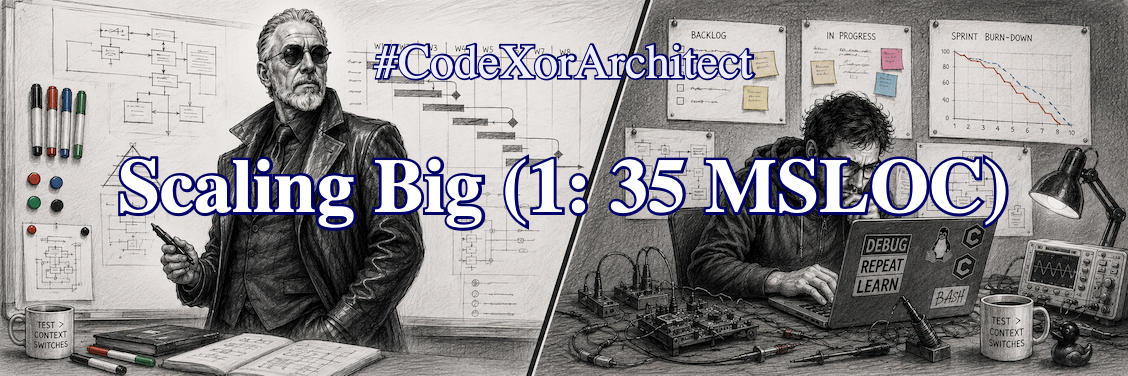
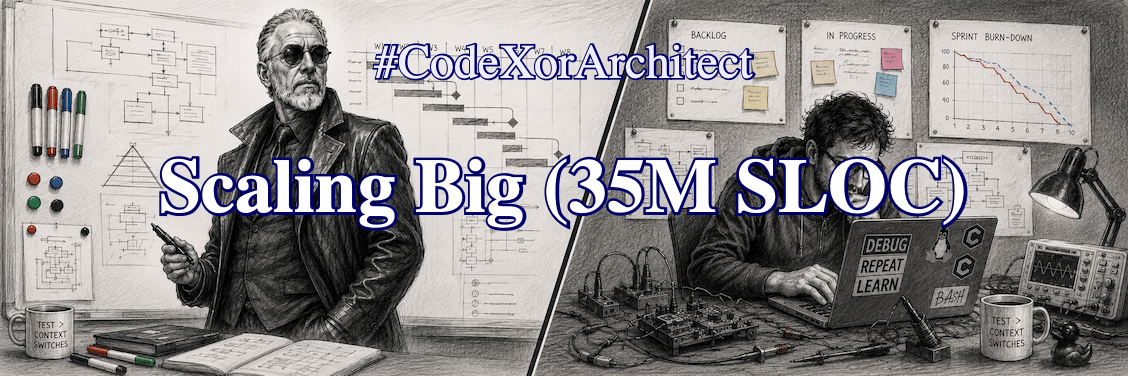
CodeXorArchitect::3.ScalingBig-1: shorter, compact and a bit less 'Linux'

Changed region(s): [[0.0931, 0.4096, 0.8998, 0.6144]]

diff --git a/SystemEngineering/blogs/CodeXorArchitect/DRAFTS/3.ScalingBig-1__35MSLOC.rst b/SystemEngineering/blogs/CodeXorArchitect/DRAFTS/3.ScalingBig-1__35MSLOC.rst
@@ -5,44 +5,41 @@
 
 Scaling Big (1)
 ===============
-:Ready: 		No
+:Ready: 		13/Sept 2026
 :Posted: 		No
 :reading-time:	?
 :LinkedIn: 		To Be done
-.. 360 words from here
 
-You shouldn't build a 350m-high skyscraper in the same way as a bike shed. Likewise, coding a 35M SLOC Linux kernel takes a
-different style than `HelloWorld`. Still, all software starts small. Even Linux did fit on a single page, 35 years ago.
+.. 329 words from here
+
+You shouldn’t build a 350m skyscraper like a bike shed; likewise, 35M lines of Linux takes a different style than
+``HelloWorld``.  All software starts small however; Linux fit on a single page, once.
 |BR|
-Today's question is: How can architecture help to scale software?
+Sound architecture helps to scale! E.g. Linux is based on the *'Common Unix Architecture'*, with drivers, CPU abstraction,
+file- & networking-IO, etc. Even version v0.0.1 of the Linux kernel used it.
 
-Linux is based on the *'Common Unix Architecture'*. A well-known, very straightforward structure, with drivers, CPU
-abstraction, file- & networking-IO, and a bit more.  Even version v0.0.1 of the Linux kernel used it. Without it, Linux
-would not scale that well.
-
-Building a big codebase is a lot of work. With common estimation statistics, we know that building Linux cost
-around 10kMY. Or, as I prefer: **20k Sprints** That is roughly 30 teams for 35 years.
+Remember, a big codebase is a lot of work. Estimates suggest a product of Linux's complexity costs around **20,000 Sprints**.
 |BR|
-When it starts, everything is small and smooth; probably you know every line of ``HelloWorld``. But that approach doesn't
-scale -- you can’t memorize millions of lines.  Still, no single SW-engineer should ever get lost in the
-codebase. Otherwise nobody can add features, and the system can't grow. Here this Common Unix Architecture helped Linux a lot.
+But, it always starts small and smooth; probably you know every line of ``HelloWorld``. But that approach doesn't
+scale -- you can’t memorize 35M SLOC.
 
-All source files are grouped in (sub)dirs along this architecture.  Roughly, 80% of all code is in the `drivers`
-directory. When you're not working on drivers, you can skip the biggest portion of the code in a blink. And this structure
-repeats.
-|BR|
-To improve, for example, the real-time behavior of the scheduler, you can skip even more. Not only are all drivers-lines
-irrelevant, the hardware abstraction and all IO modules are unimportant too. Only about 0.2% of all code is for the scheduler;
-and it's easy to find (It’s in ``/kernel/sched/``:-).
-|BR|
-The real-time part of the scheduler is even smaller; it's less than 1/100 of 1% of the codebase. A meager 2k lines; you
-probably go over it in a few days.
+To scale, no single SW-engineer should ever get lost in a codebase. Otherwise nobody can add features, and the
+system can't grow!
 
-Architecture brings structure; architecture gives the ability to find stuff. And with that, the option to change a few
-lines, without reading most of the code.
+Grouping sources in (sub)directories along the architectural structure helps!
+|BR|
+Roughly, 80% of all Linux code is in the `drivers` directory. When you're not working on drivers, you can skip the biggest
+portion of the code in a blink. This structure is everywhere.  To improve, for example, the real-time behavior of the
+scheduler, you can skip more, like the hardware abstraction, and all I/O modules. Only about 0.2% of all code is for the
+scheduler; and it's easy to find (in ``/kernel/sched/``:-).
+|BR|
+The real-time part of the scheduler is even smaller; it's less than 1/100 of 1% of the codebase. A manageable 2k lines.
+
+Architecture brings structure, and the ability to find stuff. And with that, the option to change a few lines,
+without reading most of the code.
 
 Next time you start with something that potentially can become bigger than 5 lines: Start with a sound
-architecture. Always make sure there is only one logical spot for all those further lines. One day, you can add as many
-SW-bricklayers as you need due to your “skyscraper” architecture.
+architecture. Always make sure there is only one logical spot for all future lines. Then, one day, you can add as many
+SW-bricklayers as you need for your “skyscraper”.
 
 ..  LocalWords:  codebase

diff --git a/SystemEngineering/blogs/CodeXorArchitect/DRAFTS/DRAFT_TEMPLATE.rst b/SystemEngineering/blogs/CodeXorArchitect/DRAFTS/DRAFT_TEMPLATE.rst
@@ -10,6 +10,7 @@ DRAFT TEMPLATE
 :Posted: 		No	
 :reading-time:	?	
 :LinkedIn: 		To Be done
+
 .. XXX words from here
 
 Ongeveer 250 woorden, in het engels. Ongeveer 250 woorden, in het engels. Ongeveer 250 woorden, in het engels. Ongeveer 250 woorden, in het engels.

diff --git a/SystemEngineering/blogs/CodeXorArchitect/1.TheCostOfAMistake.rst b/SystemEngineering/blogs/CodeXorArchitect/1.TheCostOfAMistake.rst
@@ -9,6 +9,7 @@ The costs of a mistake
 :Posted: 2/Sept 2026
 :reading-time: 59 sec
 :LinkedIn: https://lnkd.in/p/eYPJtsPc
+
 .. 236 words from here
 
 A typical code bug takes between one hour and one week to solve. Annoying, but the costs are minor --- a

diff --git a/SystemEngineering/blogs/CodeXorArchitect/2.GlobalDetails.rst b/SystemEngineering/blogs/CodeXorArchitect/2.GlobalDetails.rst
@@ -9,6 +9,7 @@ Global Details
 :Posted: 8/Sept 2026
 :reading-time: 1min5
 :LinkedIn: https://lnkd.in/p/egCu5sUr
+
 .. 258 words from here
 
 Any senior (embedded) software engineer knows (s)he should focus on details, as the devil is in
